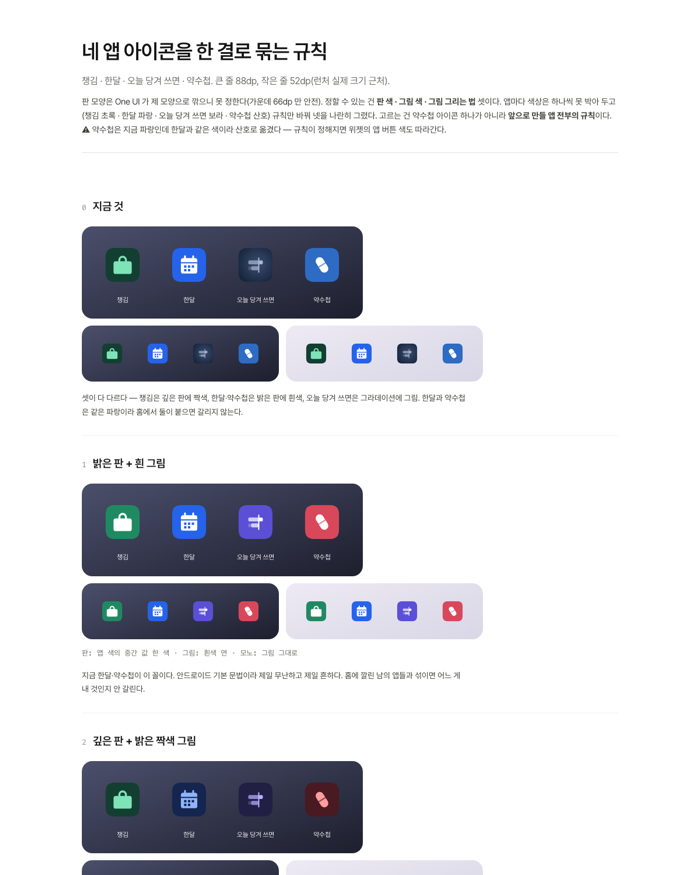
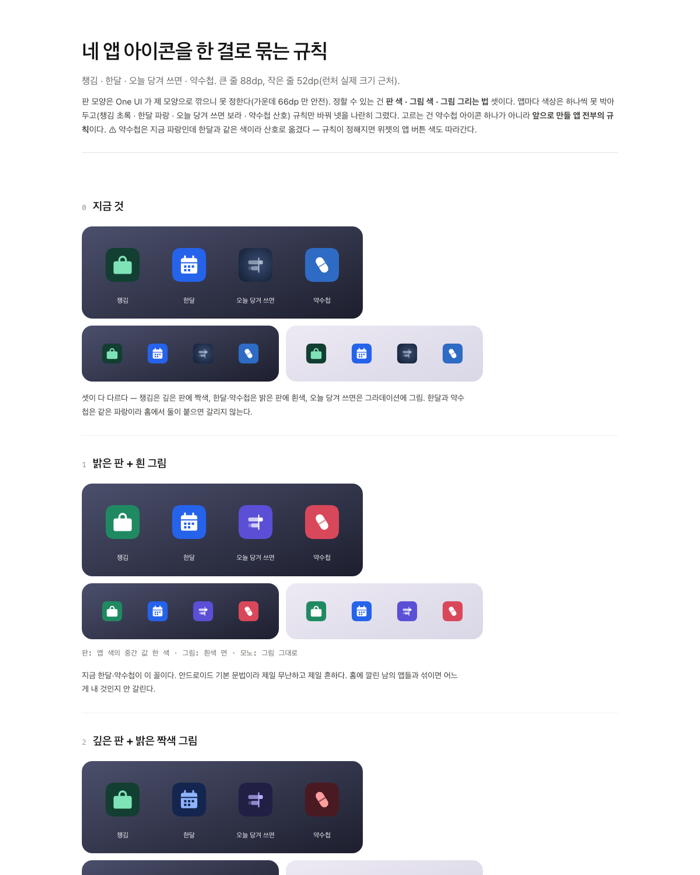
약수첩 위젯 사진 — 모서리대로 오린 것으로

diff --git a/public/p/pillbox/manual.html b/public/p/pillbox/manual.html
@@ -11,7 +11,7 @@ h2{font-size:21px;font-weight:700;margin:52px 0 10px}
 .cap{color:var(--sec);font-size:15px;margin:8px 0 0;width:55.10%} .cap.wide{width:auto;margin-top:18px}
 .lead{color:var(--sec);margin:-4px 0 12px}
 svg.fig{display:block;width:100%;height:auto;margin:6px 0 0} svg.fig text{font-family:"Pretendard",-apple-system,system-ui,sans-serif}
-.hero{display:block;width:55.10%;border-radius:26px;border:1px solid var(--rule)}
+.hero{display:block;width:55.10%}   /* 위젯 사진은 모서리대로 오려 바깥이 투명하다 — 테를 안 두른다 */
 .hero.none{padding:40px 24px;color:var(--mut);background:var(--card);font-size:14px}
 .steps{display:grid;grid-template-columns:repeat(3,1fr);gap:14px;margin:14px 0 0;width:55.10%}
 .step{background:var(--card);border-radius:18px;padding:18px 18px 16px;border:1px solid var(--rule)}
